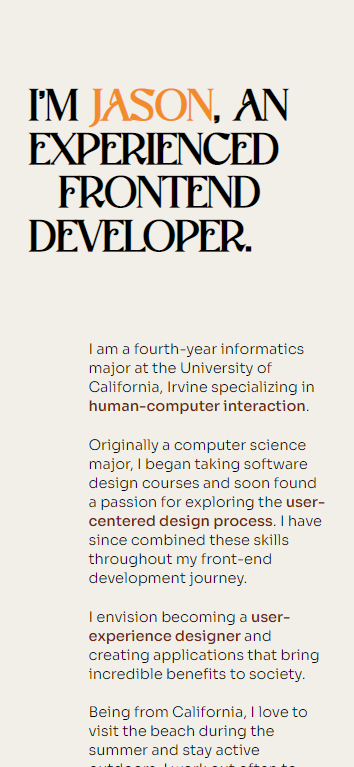
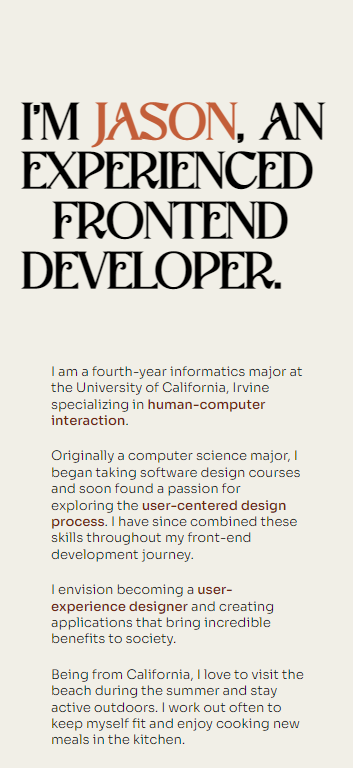
updated mobile about page

Changed region(s): [[0.1246, 0.4498, 0.9037, 1.0], [0.0623, 0.09, 0.9348, 0.3898]]

diff --git a/styles/About.module.scss b/styles/About.module.scss
@@ -91,13 +91,13 @@
 	}
 	.container > .right {
 		height: 100%;
-		padding: 2rem;
+		padding: 0 1.5rem 10rem 1.5rem;
 	}
 	.h1 {
-		font-size: 3rem;
+		font-size: 3.5rem;
 		width: 100%;
-		line-height: 3rem;
-		margin: 4rem 0;	
+		line-height: 3.4rem;
+		margin: 7rem 0 3rem 0;
 	}
 	@keyframes slide-right {
 		0% {
@@ -111,8 +111,8 @@
 		}
 	}
 	.p {
-		width: 80%;
-		font-size: 1rem;
-		padding: 0;
+		width: 100%;
+		font-size: 0.9rem;
+		padding: 0 2rem;
 	}
 }

diff --git a/styles/SlidingImages.module.scss b/styles/SlidingImages.module.scss
@@ -4,7 +4,6 @@
   position: absolute;
   overflow-y: scroll;
   transition: transform  290s linear 3s;
-  // animation: slide 290s linear 3s forwards;
 }
 .container::-webkit-scrollbar {
   display: none;
